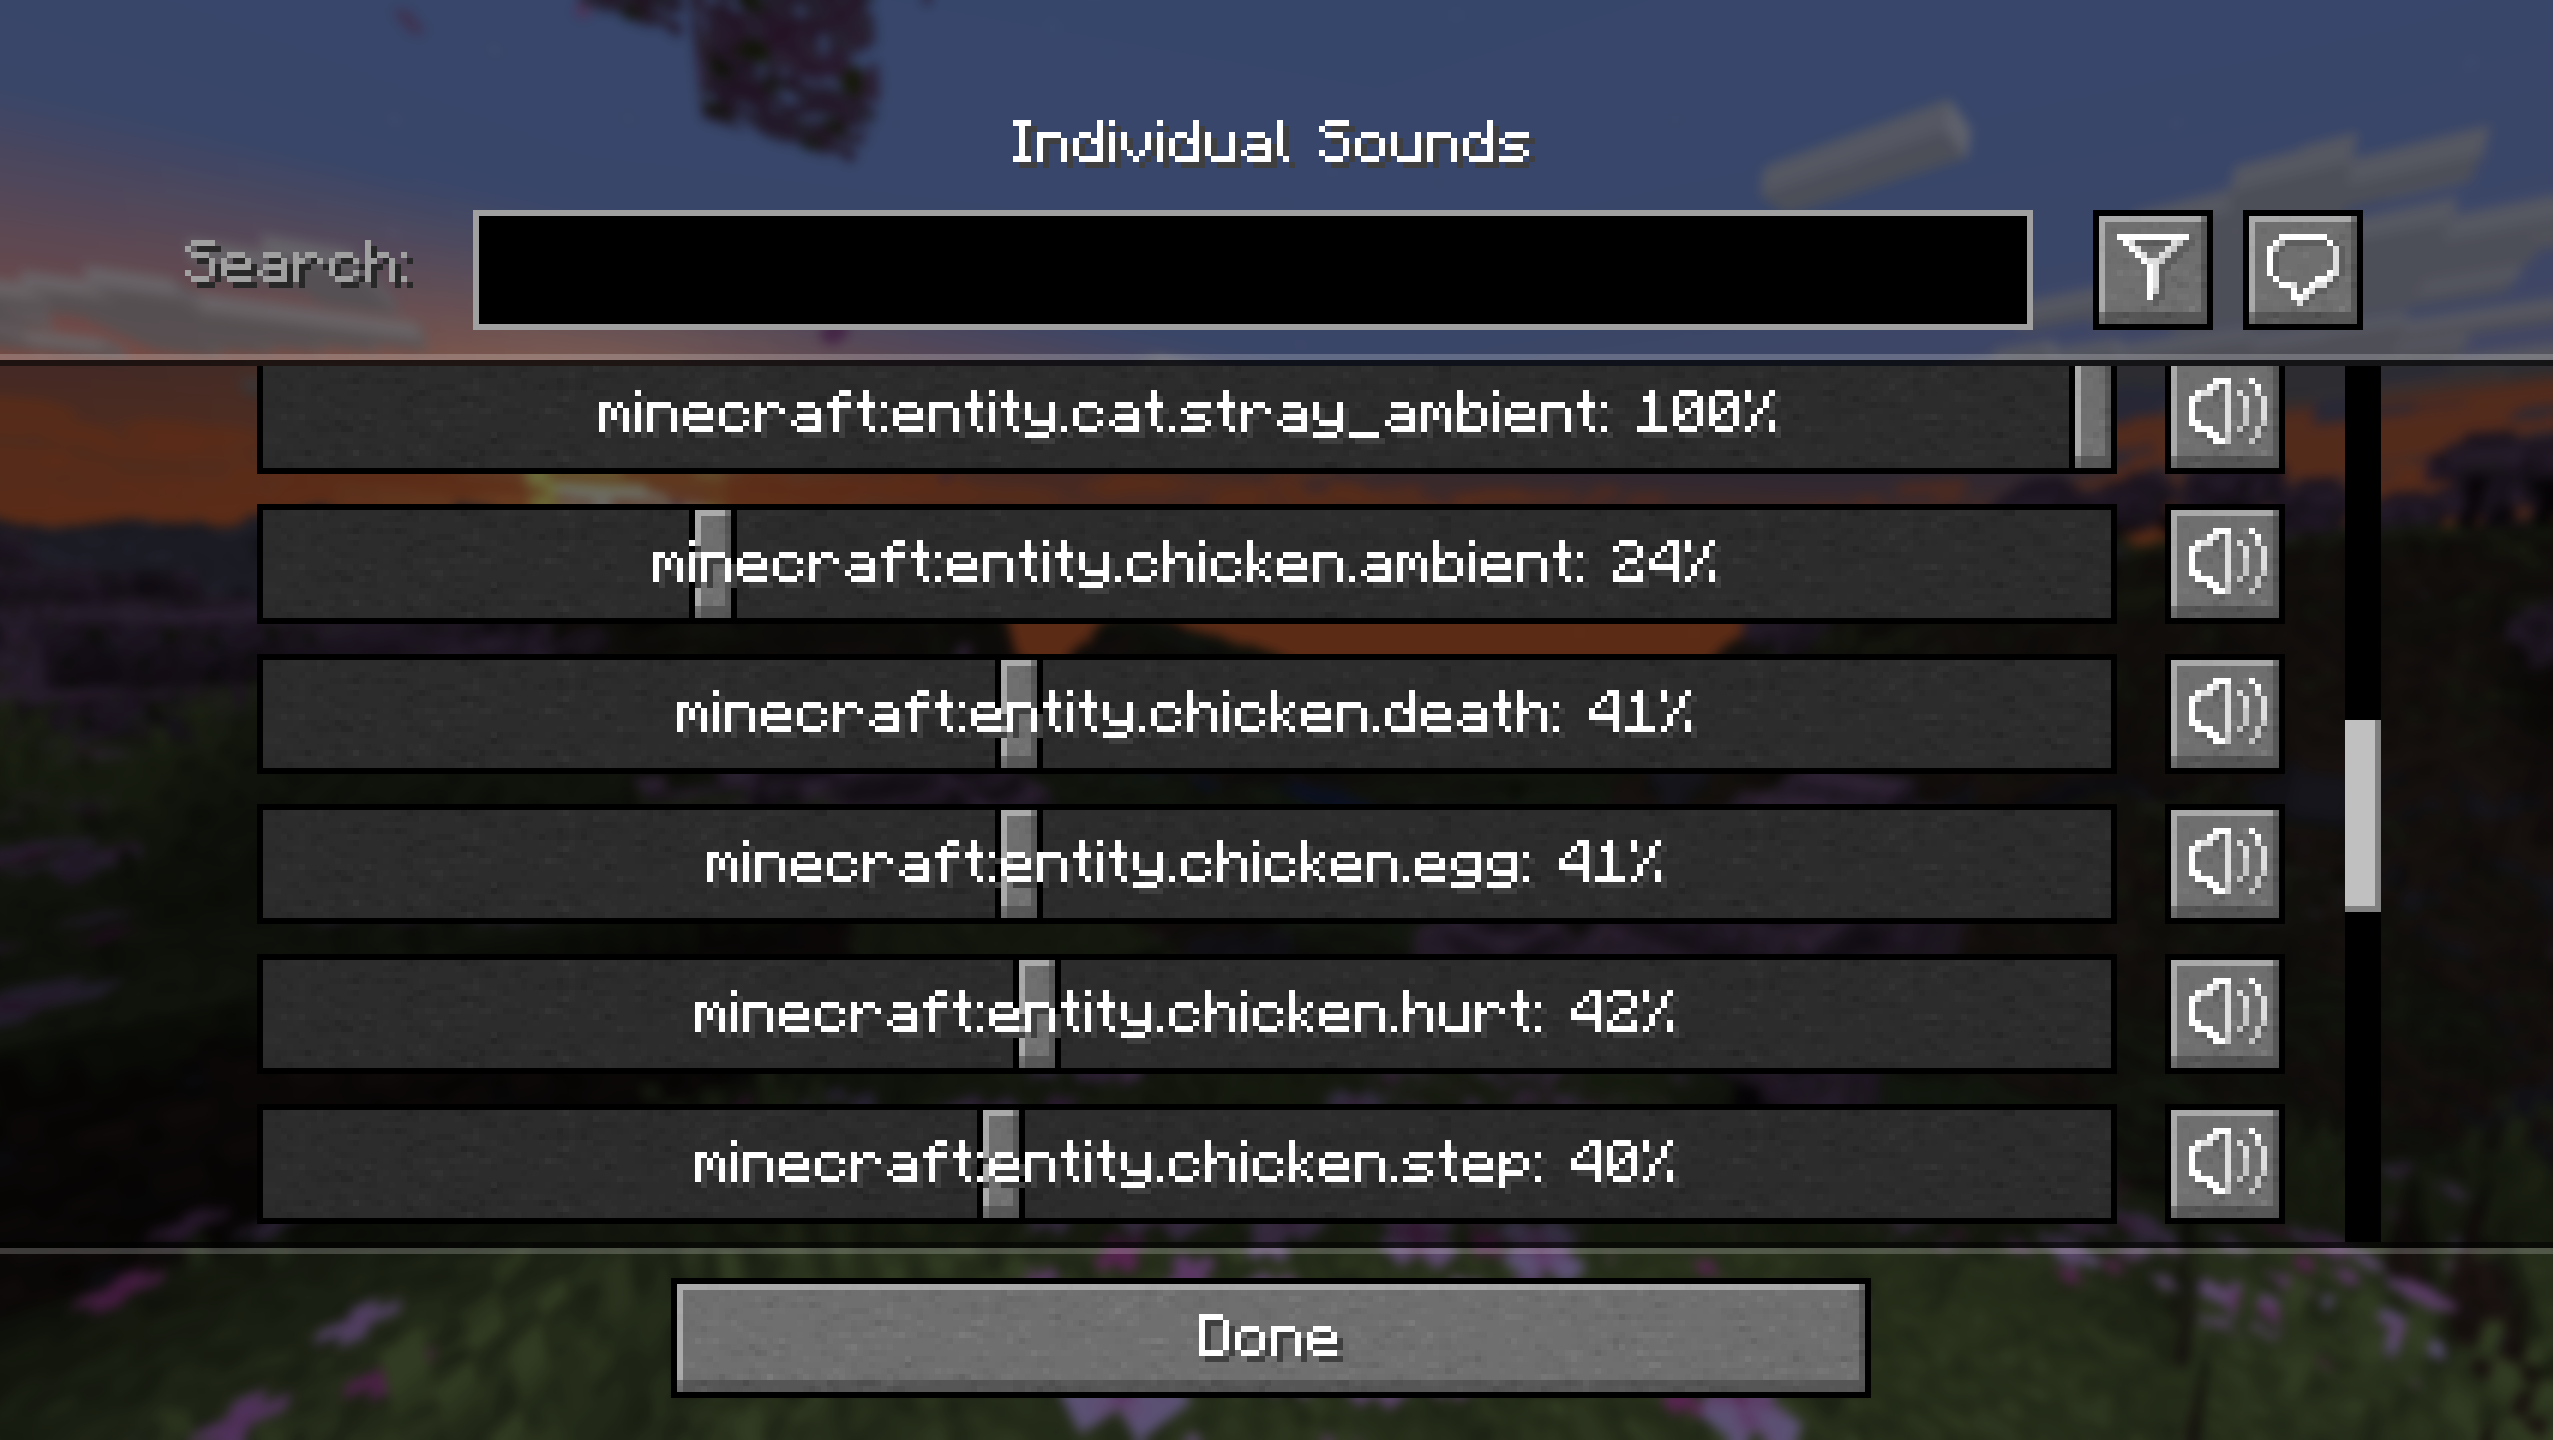
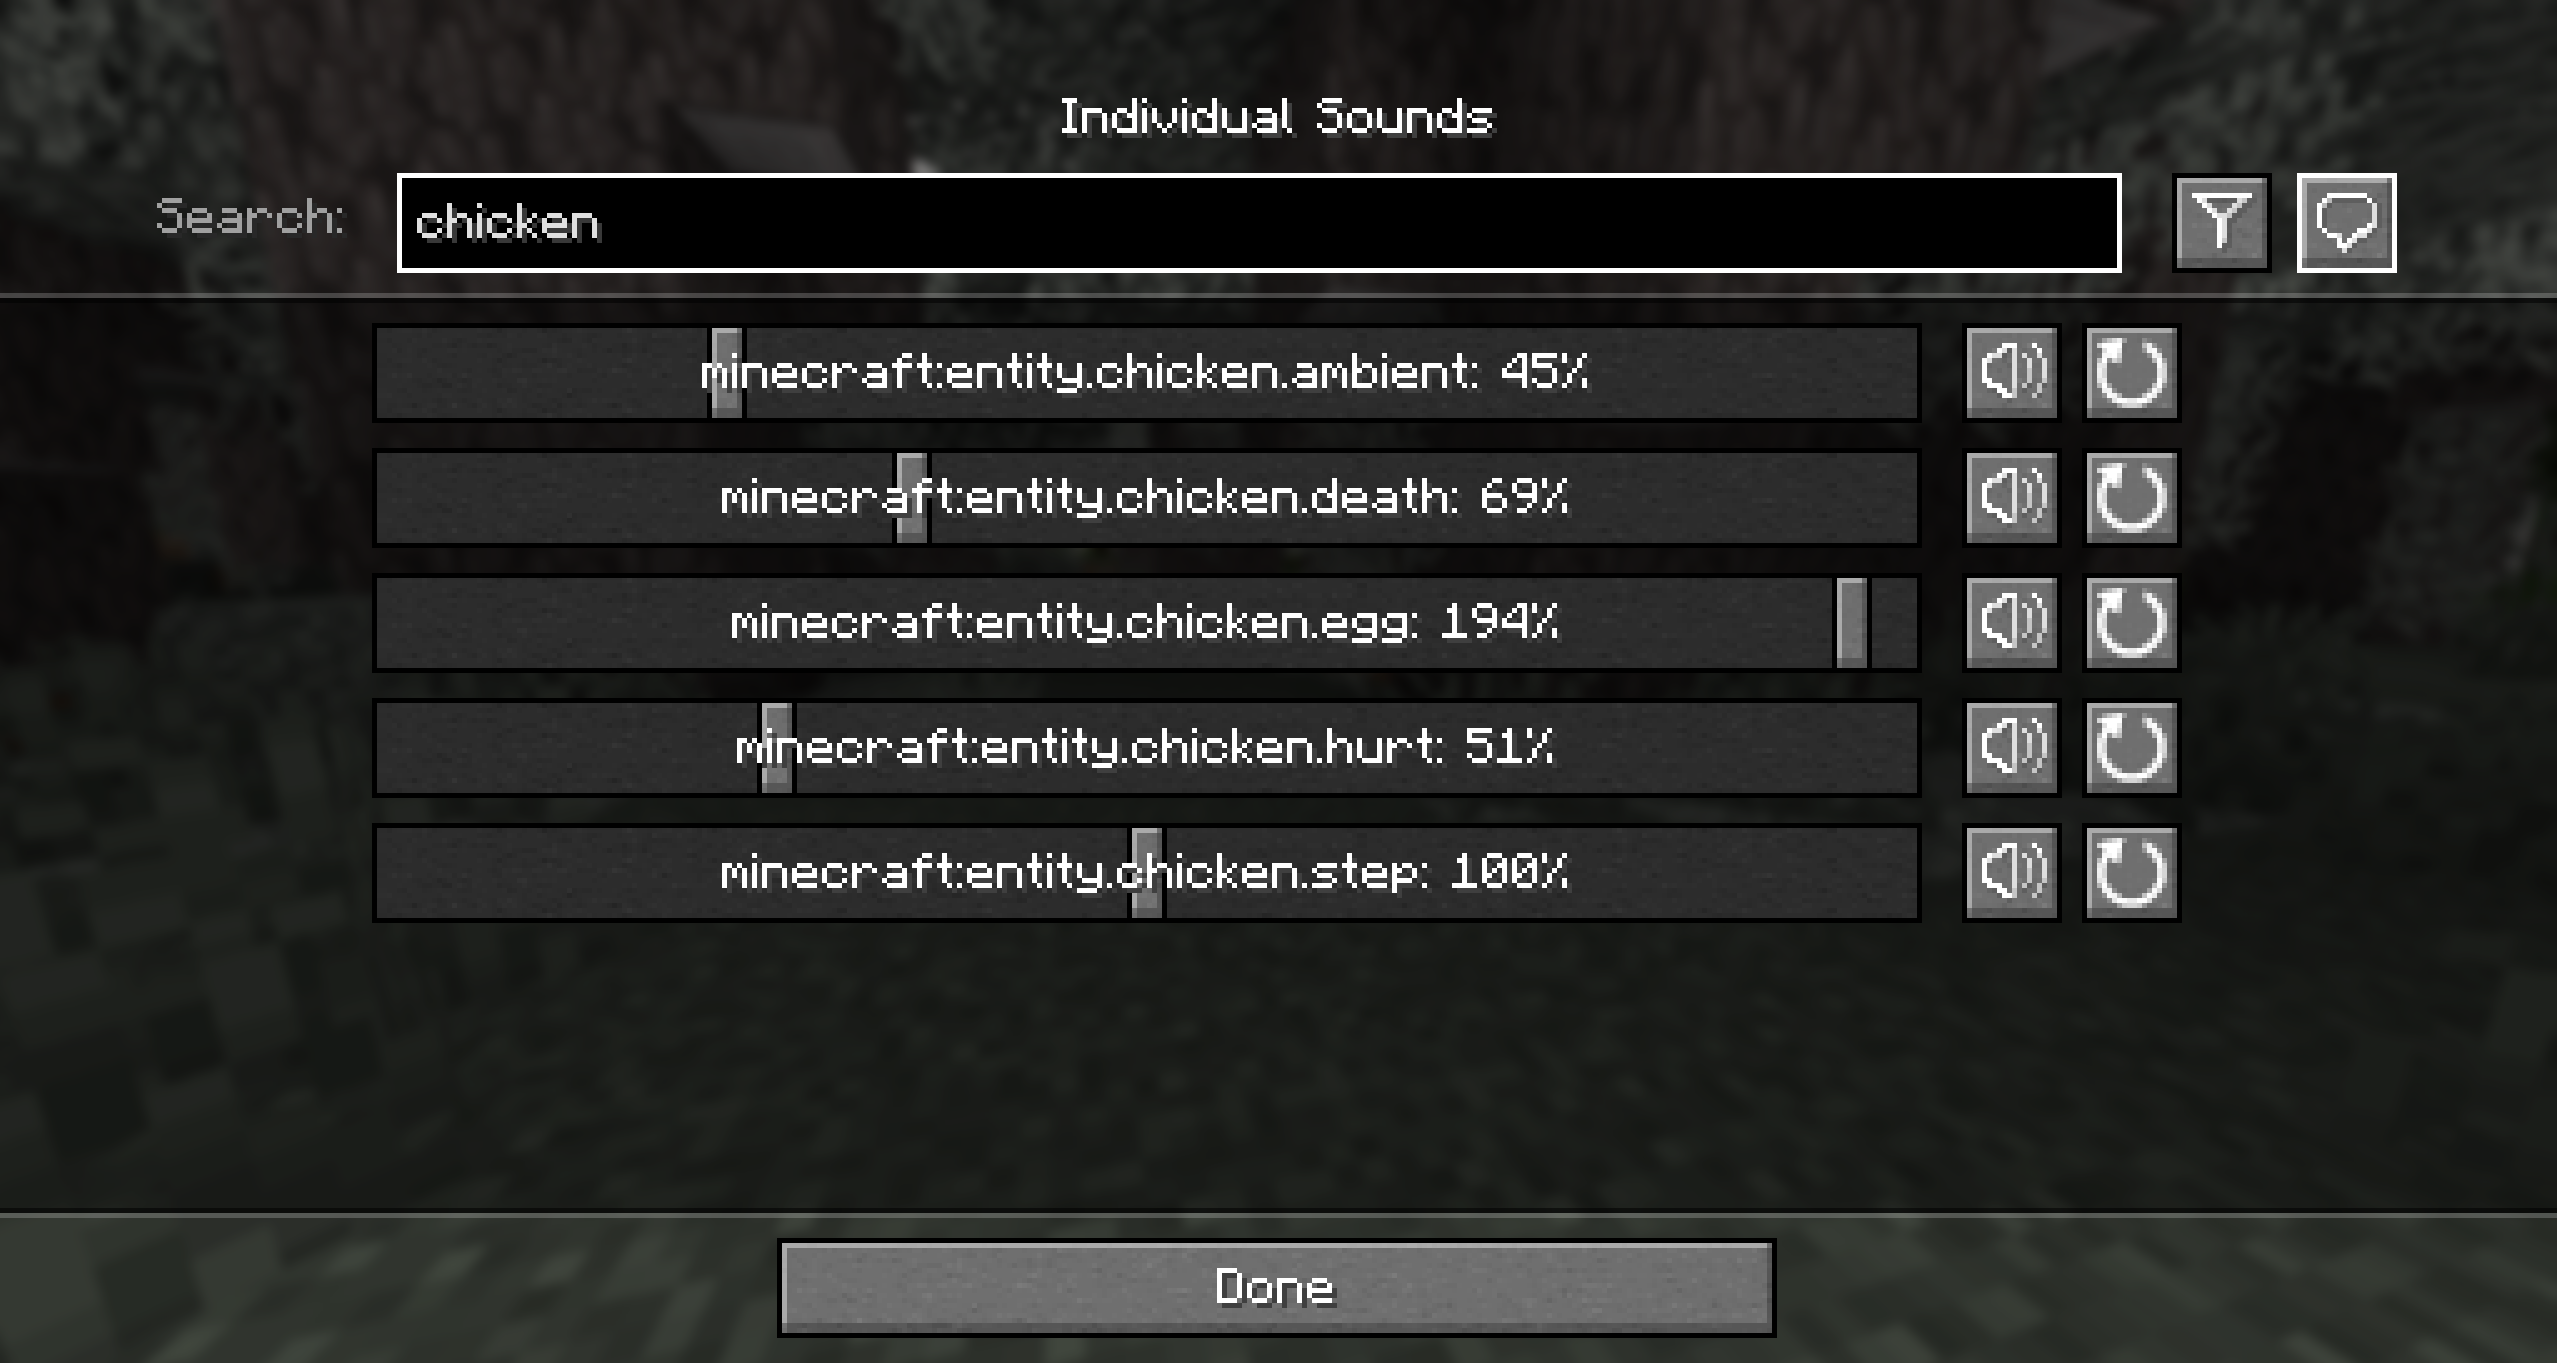
Updated README
New description and images

diff --git a/README.md b/README.md
@@ -4,11 +4,11 @@
 ![GitHub release](https://img.shields.io/github/release/BVengo/sound-controller.svg)
 ![GitHub issues](https://img.shields.io/github/issues/BVengo/sound-controller.svg)
 
-We've all dealt with that loud portal before, or those ridiculously loud mob farms. Have you ever wanted to fine-tune just a single sound without needing to change the entire category?
+We've all dealt with that loud portal before, or those ridiculously loud mob farms. Perhaps you're even listening out for a particular mob while caving. Have you ever wanted to just fine-tune those specific sounds without being limited by the category sliders?
 
-Sound Controller is a fabric mod providing complete volume control over the sounds played in the game. It simply adds an extra button to your sound settings, providing you with a screen full of sound sliders.
+Sound Controller is a fabric mod providing complete volume control over the sounds played in the game. It adds an extra set of options to your sound settings, providing you with volume sliders for every single sound between 0-200%.
 
-By utilising the minecraft registry, this mod should also include all other sounds added to the game by your favourite mods.
+By utilising the minecraft registry, this mod should also include all other sounds added to the game by your favourite mods (provided those mods add their sounds to the normal registry).
 
 This mod is available on [GitHub](https://www.github.com/BVengo/sound-controller), [CurseForge](https://www.curseforge.com/minecraft/mc-mods/sound-controller), and [Modrinth](https://www.modrinth.com/mod/sound-controller).
 
@@ -18,8 +18,9 @@ This mod is available on [GitHub](https://www.github.com/BVengo/sound-controller
 - A search bar to quickly find the sound you're looking for
 - A toggle that filters to your modified volumes, so you can easily find the sounds you've changed
 - A toggle that replaces vanilla subtitles with sound ids, so you can identify the name of that pesky noise nearby
-- Sliders for every sound in the game, including those added by mods
+- Sliders for every sound in the game, including those added by mods. Allows setting volumes between 0% to 200%.
 - A button for every slider that will play the sound at the volume you've set
+- A button to reset sounds to their default values
 
 When using the final feature, it may be hard to hear your sound around all the other game sounds. The easiest place to use it is directly from the menu, however you may want to temporarily disable the `minecraft:music.menu` too!
 
